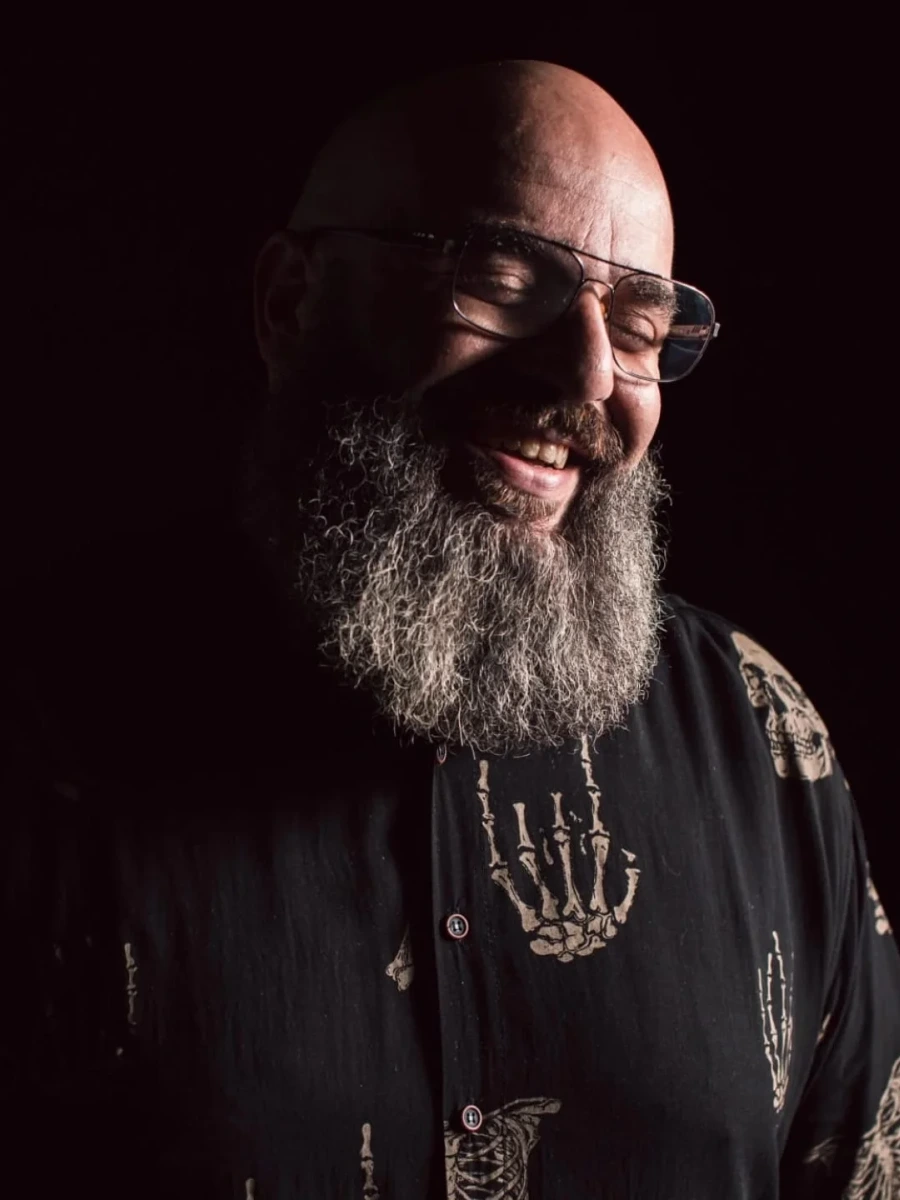
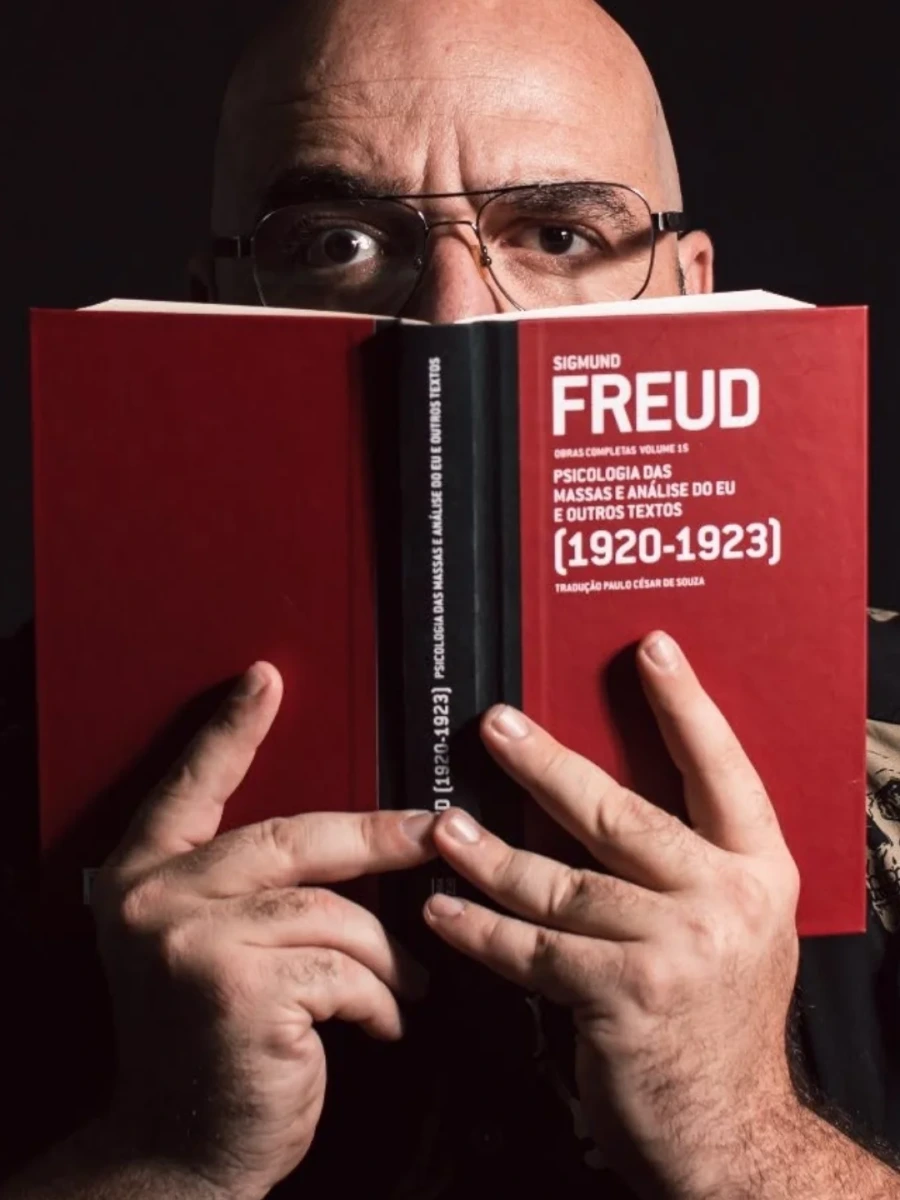
versão apresentada para cliente

diff --git a/src/styles/collections/editorial.css b/src/styles/collections/editorial.css
@@ -4,7 +4,7 @@
 
 /* Classes tipográficas semânticas da coleção editorial */
 .texto-titulo {
-  font-family: var(--font-titulos, Georgia, serif);
+  font-family: var(--font-titulos, sans-serif);
   font-size: var(--text-3xl);
   line-height: var(--text-3xl--line-height);
   font-weight: 500;
@@ -12,7 +12,7 @@
 }
 
 .texto-subtitulo {
-  font-family: var(--font-titulos, Georgia, serif);
+  font-family: var(--font-titulos, sans-serif);
   font-size: var(--text-2xl);
   line-height: var(--text-2xl--line-height);
   font-weight: 500;

diff --git a/src/styles/global.css b/src/styles/global.css
@@ -20,7 +20,7 @@
   --radius-button: 999px;
 
   /* Tipografia compartilhada */
-  --font-sans: "Inter Variable", system-ui, sans-serif;
+  --font-sans: "Questrial", sans-serif;
   --text-xs: 0.75rem;   --text-xs--line-height: 1.4;
   --text-sm: 0.875rem;  --text-sm--line-height: 1.5;
   --text-base: 1rem;    --text-base--line-height: 1.6;
